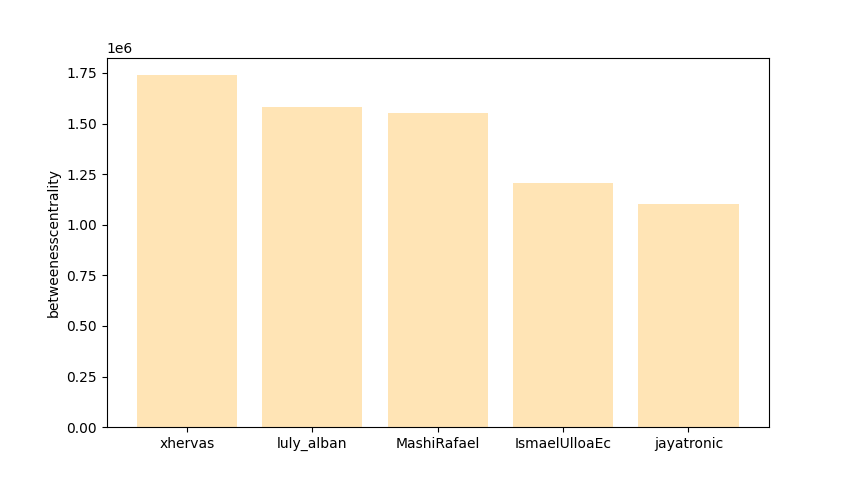
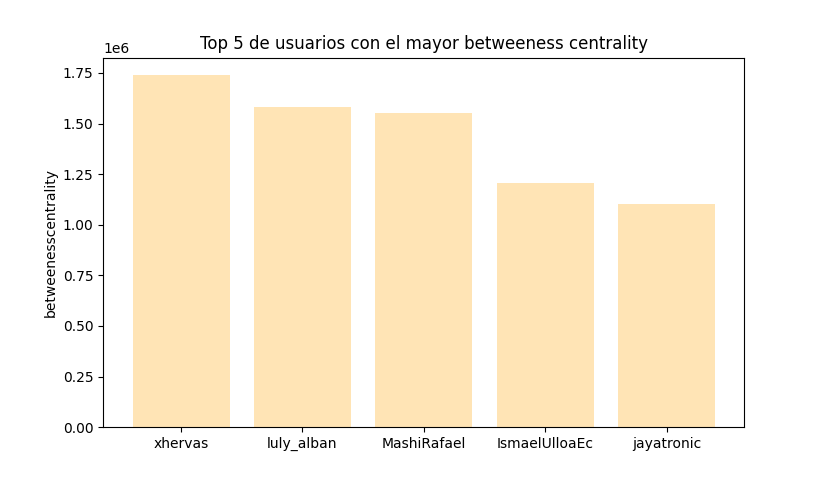
new plots

diff --git a/analysis/graph_analysis.py b/analysis/graph_analysis.py
@@ -40,25 +40,28 @@ def create_graph():
   pos = nx.spring_layout(g)
   ec = nx.draw_networkx_edges(g, pos, alpha=0.2)
   nc = nx.draw_networkx_nodes(g, pos, node_size=100, cmap=plt.cm.jet)
-  plt.show()
+  plt.title('Grafo de los nodos usuarios en twitter')
+  plt.savefig("analysis/images/Grafo.png")
 
 
 df_tweets = pd.read_csv("data/tweets_debate.csv")
 #clean_tweets_mentions()
 #edges_file()
 edges,nodes=nodes_edges()
-#create_graph()
+create_graph()
 
 nodes = nodes.sort_values('indegree',ascending=False)
 plt.bar(nodes["Id"].head(),nodes["indegree"].head(), color="lightcoral")
 plt.ylabel("indegree")
-#plt.savefig('/images/indegree.png')
+plt.title("Top 5 de usuarios con el mayor indegree")
+#plt.savefig('analysis/images/indegree.png')
 plt.show()
 
 nodes = nodes.sort_values('betweenesscentrality',ascending=False)
 plt.bar(nodes["Id"].head(),nodes["betweenesscentrality"].head(), color="moccasin")
 plt.ylabel("betweenesscentrality")
-#plt.savefig('/images/betweenesscentrality.png')
+plt.title("Top 5 de usuarios con el mayor betweeness centrality")
+#plt.savefig('analysis/images/betweenesscentrality.png')
 plt.show()
 
 nodes['freq_class']=nodes.groupby("modularity_class")["modularity_class"].transform("count")
@@ -66,4 +69,4 @@ nodes_unique=nodes.drop_duplicates(subset=["modularity_class"])
 nodes_unique = nodes_unique.sort_values('freq_class',ascending=False)
 top_class = nodes_unique.head()["modularity_class"].values
 for c in top_class:
-    get_wordcloud([nodes[nodes["modularity_class"]==c].Id], 'class_{}'.format(c))
+    get_wordcloud([nodes[nodes["modularity_class"]==c].Id], '{}'.format(c))

diff --git a/analysis/utils.py b/analysis/utils.py
@@ -70,7 +70,7 @@ def get_wordcloud(list_serie_texto, social_networkd_name):
     plt.imshow(wordcloud, interpolation='bilinear')
     plt.axis("off")
     #plt.title('WordCloud con todos los post de las redes sociales', size=15)
-    plt.title("Clasficacion {} del grafo.".format(social_networkd_name), size=15)
+    plt.title("Clase {} del grafo.".format(social_networkd_name), size=15)
     plt.savefig('analysis/images/wordcloud_%s.png'%social_networkd_name,dpi=200,bbox_inches='tight')
     plt.show()
 
